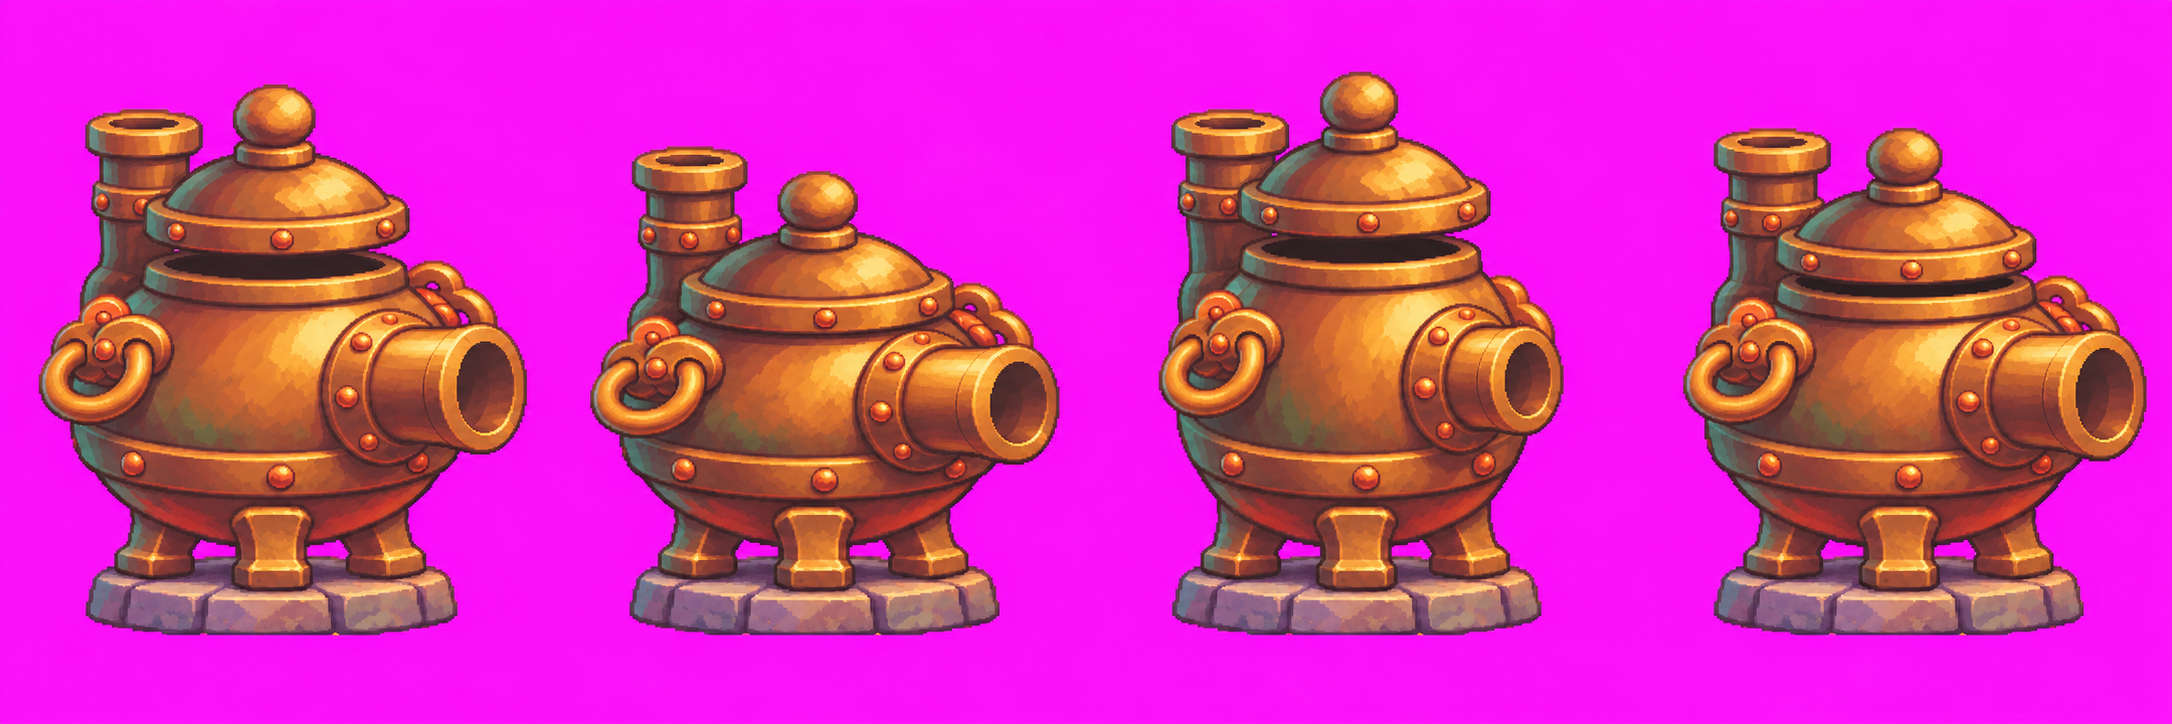
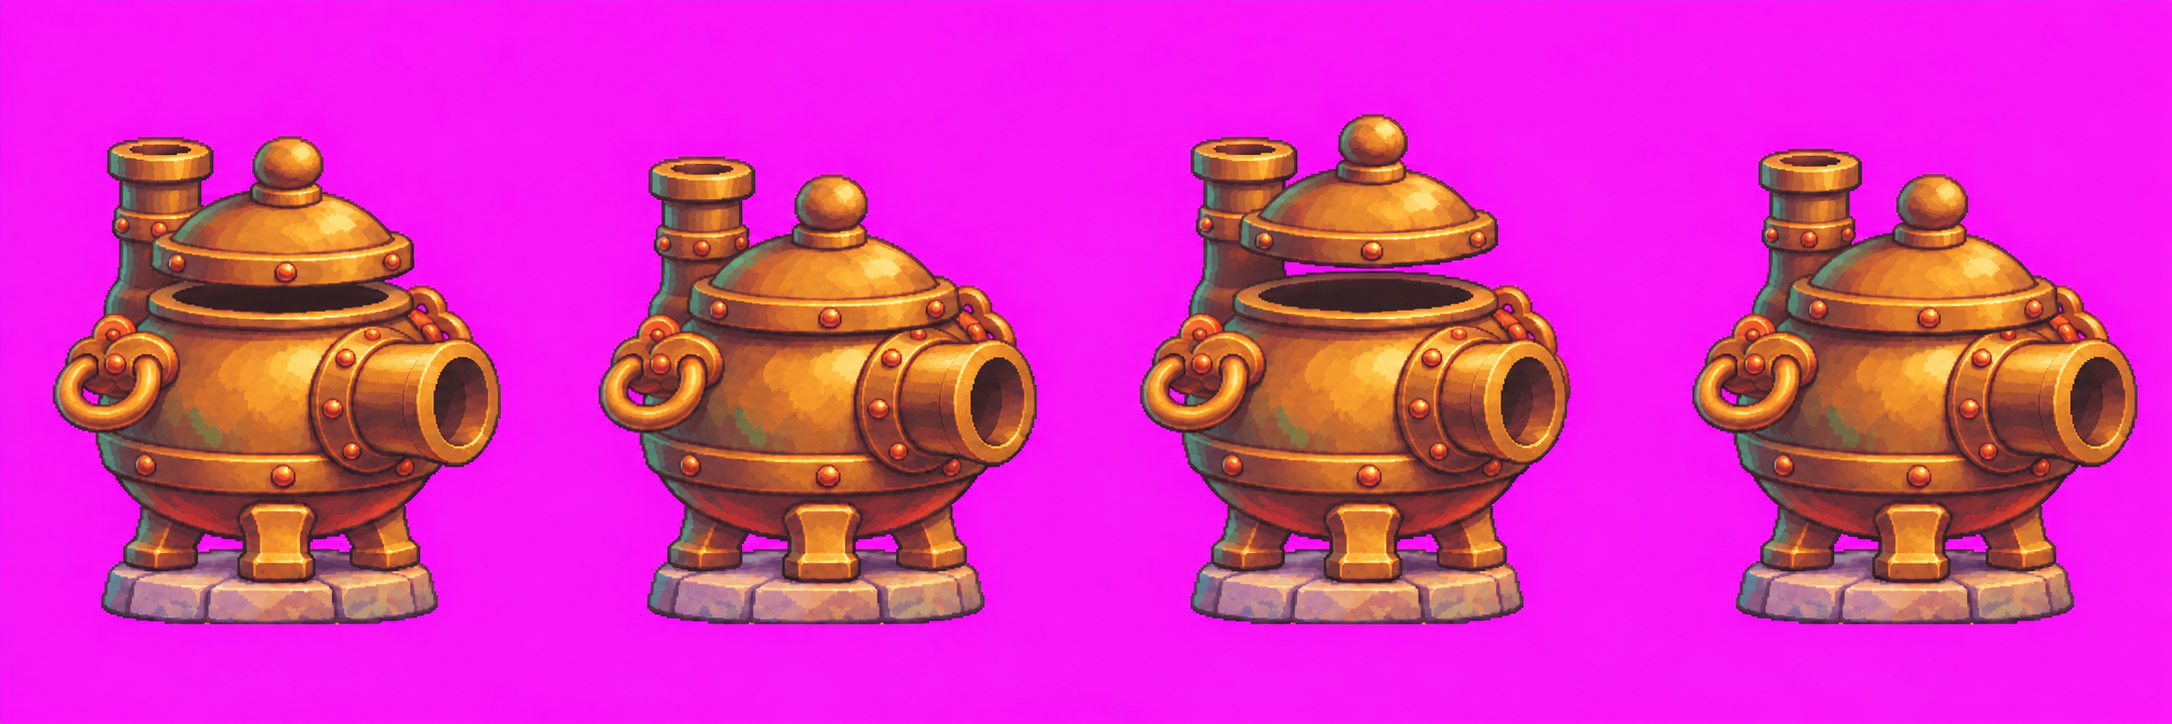
art(batch2): revise locked proportions of furnace__t2__attack.png

diff --git a/idle-td-art/batch2/ORDER-B2.md b/idle-td-art/batch2/ORDER-B2.md
@@ -109,7 +109,6 @@ Redraw image B frame by frame using the tier <N> design from image A: EXACTLY th
 | `images/crossbow__t3__attack.png` | 2172×724 | 4 | 3 階三聯金弩沿用攻擊節奏；弩具、旗幟與兩枚金羽逐格變化，無空中投射物。 |
 | `images/furnace__t2__stand.png` | 1254×1254 | 1 | 丹爐炮塔 2 階：青銅爐體、銅鉚釘與把手、加寬炮口、後方煙囪。 |
 | `images/furnace__t3__stand.png` | 1254×1254 | 1 | 丹爐炮塔 3 階：金色八卦爐、紅玉寶石、朝右龍口炮嘴、微浮爐蓋。 |
-| `images/furnace__t2__attack.png` | 2172×724 | 4 | 丹爐炮塔 2 階攻擊四格：青銅爐、鉚釘、環耳與煙囪，沿用 1 階擠壓與爐蓋動作。 |
 | `images/furnace__t3__attack.png` | 2172×724 | 4 | 丹爐炮塔 3 階攻擊四格：金色八卦爐、紅玉與龍口炮嘴，爐體擠壓、爐蓋起落。 |
 | `images/bell__t2__stand.png` | 1254×1254 | 1 | 雷音鐘塔 2 階：紅漆曲簷鐘亭、雕雲紋青銅鐘、魚形木槌。 |
 | `images/bell__t3__stand.png` | 1254×1254 | 1 | 雷音鐘塔 3 階：紫金鐘樓、雷雲紋金鐘、雙鼓與三枚浮雲飾件。 |
@@ -127,6 +126,7 @@ Redraw image B frame by frame using the tier <N> design from image A: EXACTLY th
 | `images/talisman__t2__attack.png` | 2172×724 | 4 | 符咒塔 2 階攻擊四格：六張黃符後揚、抬起、右展、回落；已修正初稿符紙缺張。 |
 | `images/talisman__t3__attack.png` | 2172×724 | 4 | 符咒塔 3 階攻擊四格：兩排黃紫符紙共八張，後揚、抬起、右展與回落；毛筆與流蘇起伏。 |
 | `images/furnace__t1__attack.png` | 2172×724 | 4 | 09:35 返工修正版：爐身、三足與底座固定，只動爐蓋與炮口；第 4 格關蓋回站立。 |
+| `images/furnace__t2__attack.png` | 2172×724 | 4 | 09:35 返工修正版：青銅爐身不擠壓、不拉長，只動蓋與炮口；第 4 格關蓋，比例已重新對照站立。 |
 
 原檔 SHA-256：
 
@@ -142,7 +142,6 @@ Redraw image B frame by frame using the tier <N> design from image A: EXACTLY th
[7 lines of base64/hex data omitted]
@@ -160,6 +159,7 @@ Redraw image B frame by frame using the tier <N> design from image A: EXACTLY th
[4 lines of base64/hex data omitted]
 
 ## 意見與待辦
 
